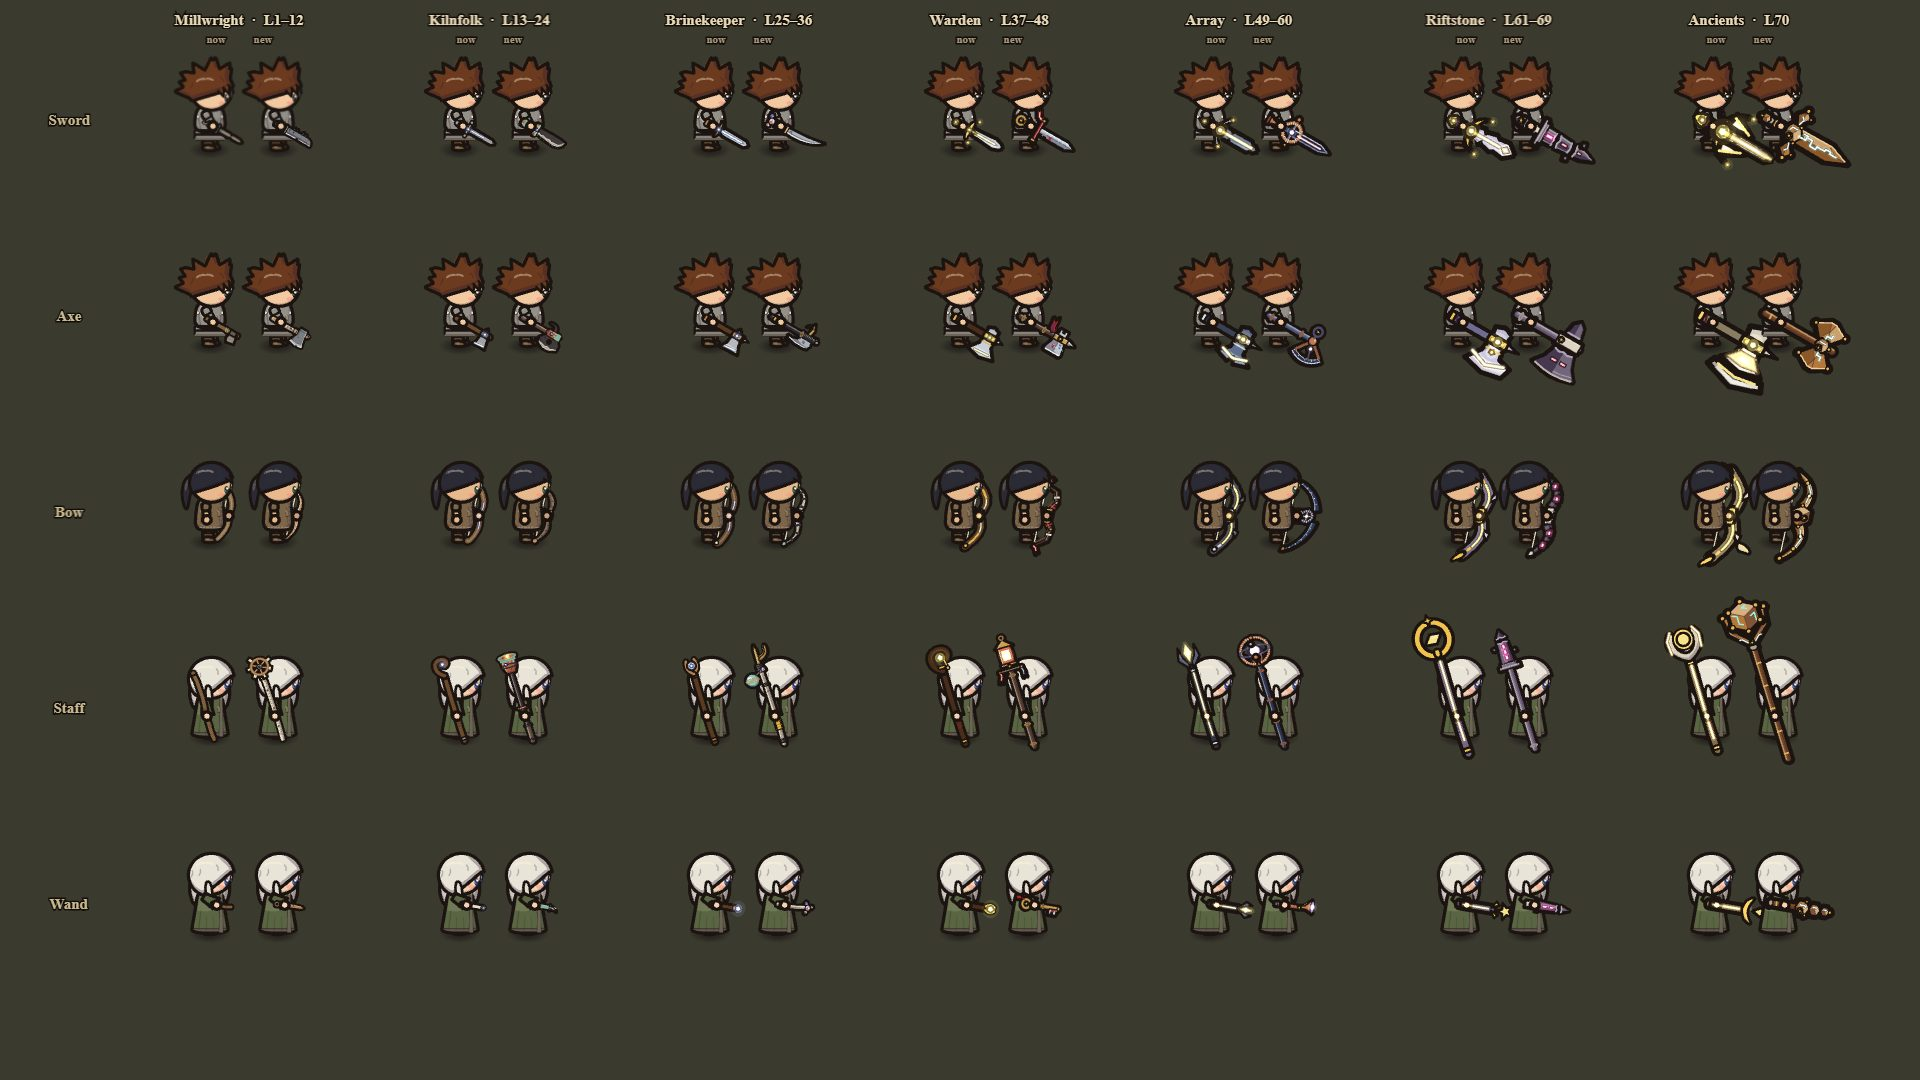
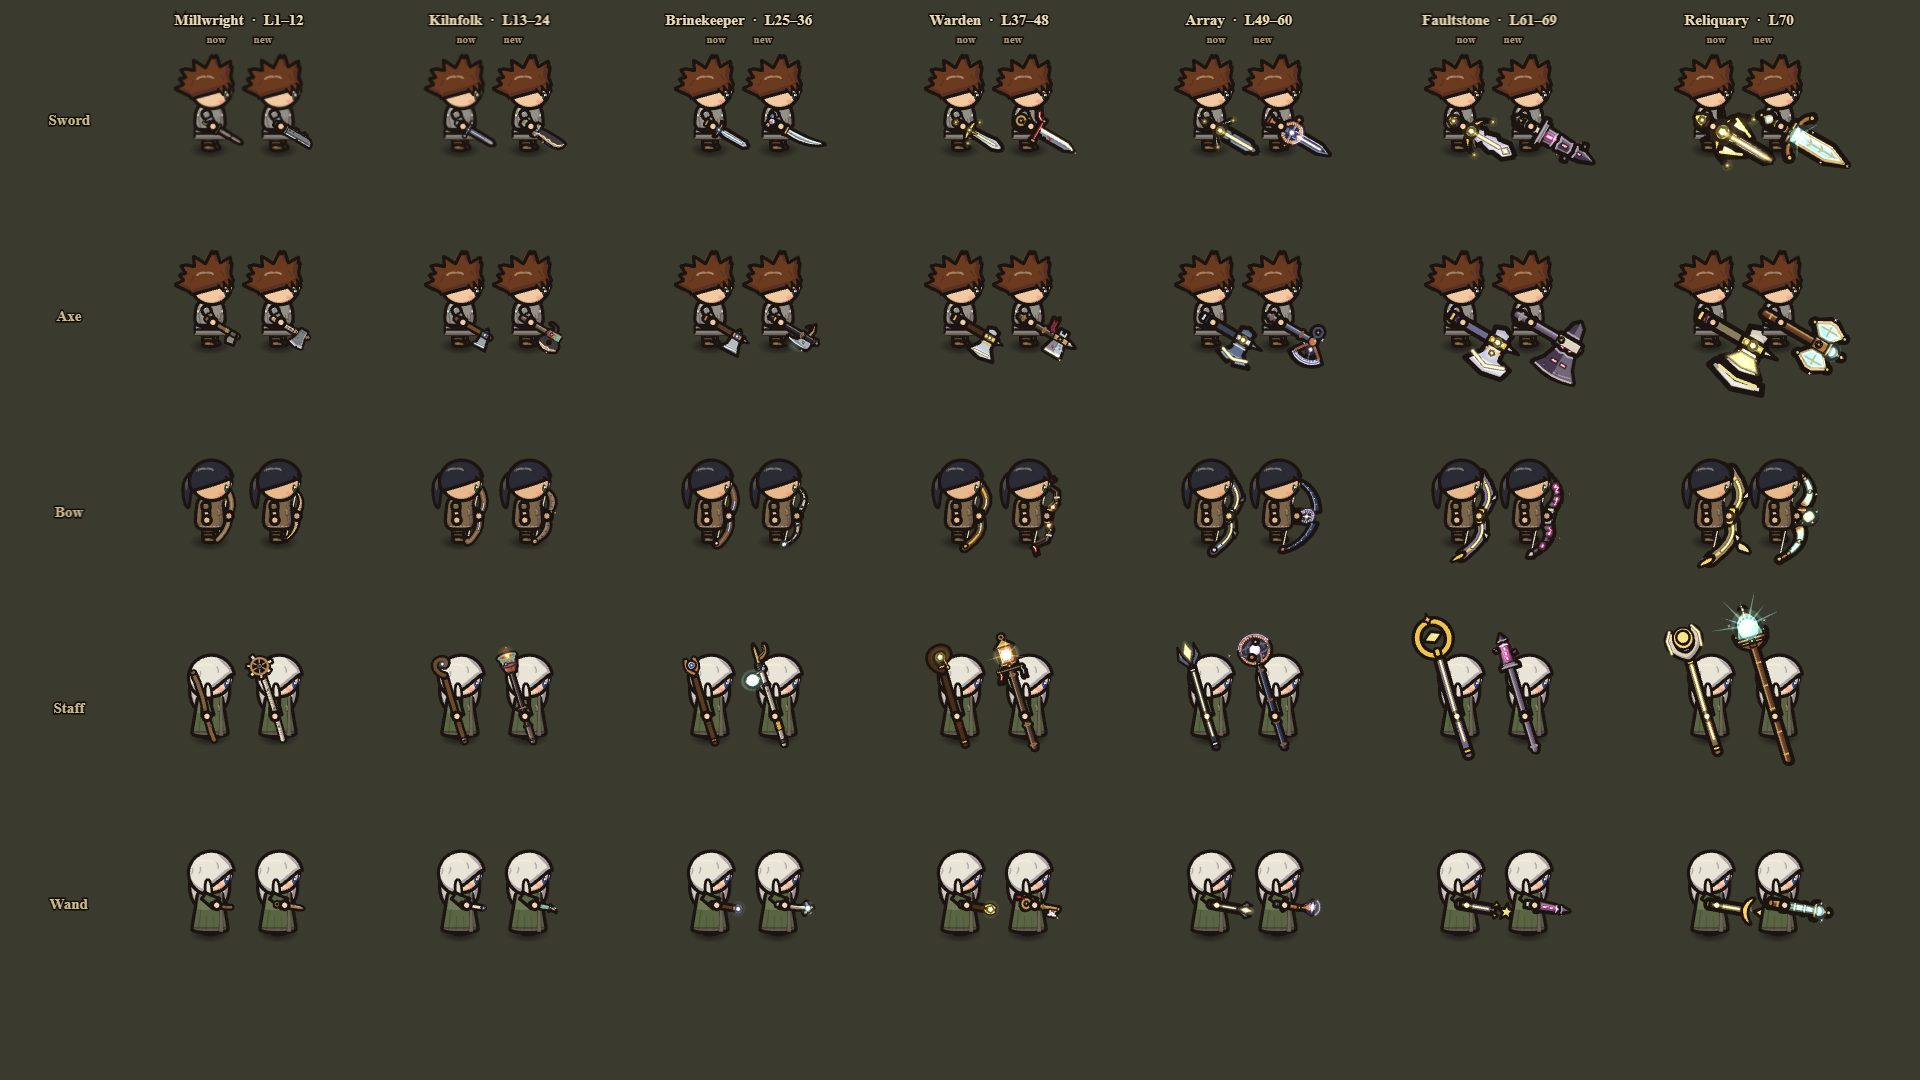
art-direction: bible and references updated (effects decision, renames, preview switch); evidence

diff --git a/docs/rework/gear/ART-REFERENCES.md b/docs/rework/gear/ART-REFERENCES.md
@@ -95,10 +95,10 @@ Earlier research still applies where cited: `REFERENCES-V2.md` (V1–V11, M1–M
 ### This repo (world identity that already exists)
 | # | Fact | Label / source |
 |---|---|---|
-| WR1 | Zone level bands and maker cultures: Rillwake mill (1–4), Bracken sluice (4–7), Reedvault Pumpworks (7–9), Cairnspill quarry (9–12), Cinderwash / Kilnwatch kilns (12–20), Sablefen ferriers (20–25), Saltwind salt pans (25–30), Lockglass cistern (30–35), Shiverline signal ridge (35–40), Beaconbreak ward (40–45), Hollowstar array (45–50); rifts and the fields scale to 70. | [M] `shared/src/data/zones.ts`, `docs/rework/worlds/DESIGN.md` §2 |
+| WR1 | Zone level bands and maker cultures: Rillwake mill (1–4), Bracken sluice (4–7), Reedvault Pumpworks (7–9), Cairnspill quarry (9–12), Cinderwash / Kilnwatch kilns (12–20), Sablefen ferriers (20–25), Saltwind salt pans (25–30), Lockglass cistern (30–35), Shiverline signal ridge (35–40), Beaconbreak ward (40–45), Hollowstar array (45–50); the Faultline (formerly rifts) and the fields scale to 70. | [M] `shared/src/data/zones.ts`, `docs/rework/worlds/DESIGN.md` §2 |
 | WR2 | Generations = item-name bands 1–12, 13–24, 25–36, 37–48, 49–60, 61–69, 70 (`baseTierIndex` + cap). | [M] `shared/src/items.ts`, `gearVisual.ts` |
 | WR3 | Look briefs to borrow colour from: Orren's flat cap with a red band, Sera's bright yellow oilskin and rope belt, Neris's salt-white apron and rake, Venn's brass buttons and iron poker, Kessa's soot and goggles, Tallis's signal flags and patched green cloak, Mera's crimson ward sash and fist-sized key ring, Eris's pale lilac shawl, copper earring and horn cups. | [M] `docs/rework/CAST.md` |
-| WR4 | Endgame landmarks already drawn in town: the Ancients' Cube (bronze faces `#B4783A/#E0AA5E/#7A4A22`, teal rune channels `#7FF2E0`, gold corner caps), the Rift Obelisk (dark slate `#3A3440`, rectangular rune slots, magenta runes `#FF4A9A`), the Waypoint ring (stone, pale blue runes). | [M] `client/src/render/art/npcs.ts` |
+| WR4 | Endgame landmarks already drawn in town: the Glass Reliquary (formerly the Cube: bronze faces `#B4783A/#E0AA5E/#7A4A22`, teal rune channels, gold corner caps) under the town's glass dome (`townHouses.ts dome`: teal-tinted glass lit from inside `#96FFEC`, meridian ribs, a white streak, a gold finial), the Faultstone obelisk (formerly Rift Obelisk: dark slate `#3A3440`, rectangular rune slots, magenta runes `#FF4A9A`), the Waypoint ring (stone, pale blue runes). Names from the owner's name register (`docs/rework/partials/NAME-REGISTER.md` B3, B4, 2026-10-11). | [M] `client/src/render/art/npcs.ts`, `townHouses.ts` |
 
 ## 2. Rules extracted (→ ART-DIRECTION.md)
 
@@ -113,6 +113,6 @@ Earlier research still applies where cited: `REFERENCES-V2.md` (V1–V11, M1–M
 | R7 | **Every weapon is a specific, nameable object** made by someone for something ("a millwright's riving knife", "a kiln poker with a crucible"). | ST1, MH3, D6 |
 | R8 | **Line hierarchy:** heavy ink outer contour, thin interior lines; interior detail in a darker tone of the material, highlights as light interior lines. | IL1, HK2, D7 |
 | R9 | **Ink only in the lines; colour only from materials.** Shade towards the game's cool plum, highlight towards its warm cream. | DD2, D8 |
-| R10 | **Asymmetry and wear for poor makers and early bands**; precision and symmetry are earned late (instrument makers, the Ancients). | DD1, HK1 (Old Nail), D4 |
-| R11 | **Construction logic:** every part is attached by something visible (peg, rivet, lashing, collar, socket). Floating parts need a stated cause (the rift splits matter, an orrery turns on bearings). | IL3, D3 |
+| R10 | **Asymmetry and wear for poor makers and early bands**; precision and symmetry are earned late (instrument makers, the Reliquary's dome-makers). | DD1, HK1 (Old Nail), D4 |
+| R11 | **Construction logic:** every part is attached by something visible (peg, rivet, lashing, collar, socket). Floating parts need a stated cause (the Faultline splits matter, an orrery turns on bearings). | IL3, D3 |
 | R12 | **Check at real sizes** (40 px bag cell, ~64 px card, hero at the default camera) and as a silhouette. | IL2, REFERENCES-V2 B2 |
